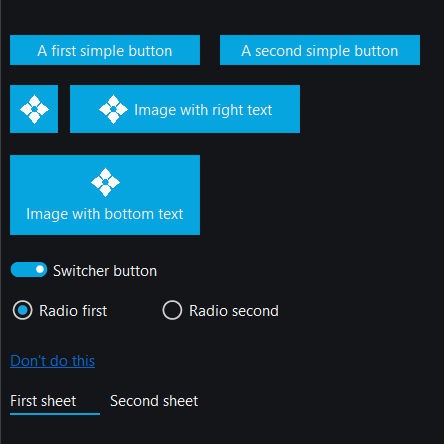
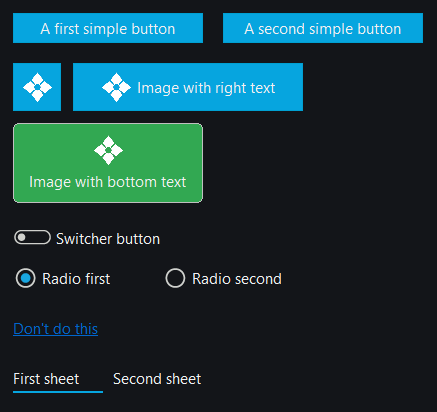
Added control images, improves

diff --git a/examples/demo/ButtonSheet/ButtonSheet.cpp b/examples/demo/ButtonSheet/ButtonSheet.cpp
@@ -23,7 +23,7 @@ ButtonSheet::ButtonSheet()
     simpleButton1(new wui::button(wui::locale("button_sheet", "simple1"), [this]() { buttonsText->set_text("Second button pushed"); }, wui::button_view::text)),
     imageButton(new wui::button("", [this]() { buttonsText->set_text("Image button pushed"); }, wui::button_view::image, IMG_LOGO, 32)),
     imageRightTextButton(new wui::button(wui::locale("button_sheet", "right_text"), [this]() { buttonsText->set_text("Image with right text button pushed"); }, wui::button_view::image_right_text, IMG_LOGO, 32)),
-    imageBottomTextButton(new wui::button(wui::locale("button_sheet", "bottom_text"), [this]() { buttonsText->set_text("Image with bottom text button pushed"); }, wui::button_view::image_bottom_text, IMG_LOGO, 32)),
+    imageBottomTextButton(new wui::button(wui::locale("button_sheet", "bottom_text"), [this]() { buttonsText->set_text("Image with bottom text button pushed"); }, wui::button_view::image_bottom_text, IMG_LOGO, 32, "rounded__green_button")),
     switcherButton(new wui::button(wui::locale("button_sheet", "switcher_text"), [this]() { buttonsText->set_text("Switcher button pushed"); }, wui::button_view::switcher)),
     radioButton0(new wui::button(wui::locale("button_sheet", "radio0_text"), [this]() { buttonsText->set_text("Radio first pushed"); radioButton1->turn(!radioButton0->turned()); }, wui::button_view::radio)),
     radioButton1(new wui::button(wui::locale("button_sheet", "radio1_text"), [this]() { buttonsText->set_text("Radio second pushed"); radioButton0->turn(!radioButton1->turned()); }, wui::button_view::radio)),

diff --git a/examples/simple/simple.cpp b/examples/simple/simple.cpp
@@ -271,7 +271,7 @@ int main(int argc, char *argv[])
         return -1;
     }
 
-    ok = wui::set_locale_from_resource("en", TXT_LOCALE_EN, "JSONS");
+    ok = wui::set_locale_from_resource(wui::locale_type::eng, "en", TXT_LOCALE_EN, "JSONS");
     if (!ok)
     {
         printf("can't load locale\n");
@@ -290,7 +290,7 @@ int main(int argc, char *argv[])
         return -1;
     }
 
-    ok = wui::set_locale_from_file("en", en_locale_json_file);
+    ok = wui::set_locale_from_file(wui::locale_type::eng, "en", en_locale_json_file);
     if (!ok)
     {
         printf("can't load locale\n");

diff --git a/examples/demo/InputSheet/InputSheet.cpp b/examples/demo/InputSheet/InputSheet.cpp
@@ -57,6 +57,6 @@ void InputSheet::End()
 
 void InputSheet::UpdateSize(int32_t width, int32_t height)
 {
-    inputText->set_position({ 10, 100, width - 10, height - 140 });
-    input0->set_position({ 10, height - 100, width - 10, height - 70 });
+    inputText->set_position({ 10, 100, width - 10, height - 240 });
+    input0->set_position({ 10, height - 200, width - 10, height - 170 });
 }

diff --git a/examples/demo/Resource.h b/examples/demo/Resource.h
@@ -9,7 +9,7 @@
 
 #ifdef _WIN32
 
-#define IDI_SIMPLE			    107
+#define IDI_DEMO			    107
 #define IMG_LOGO				109
 
 #define IMG_ACCOUNT     		110
